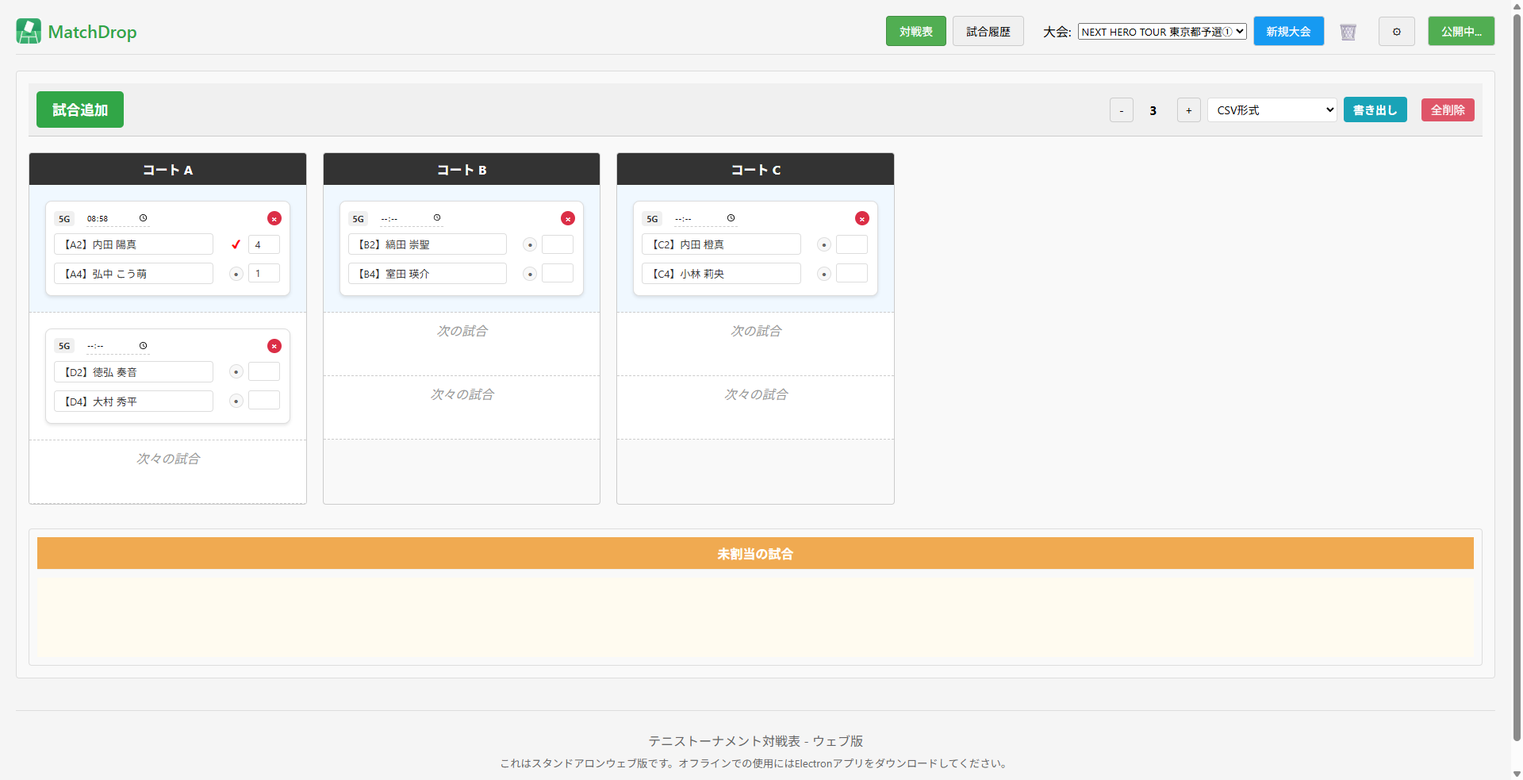
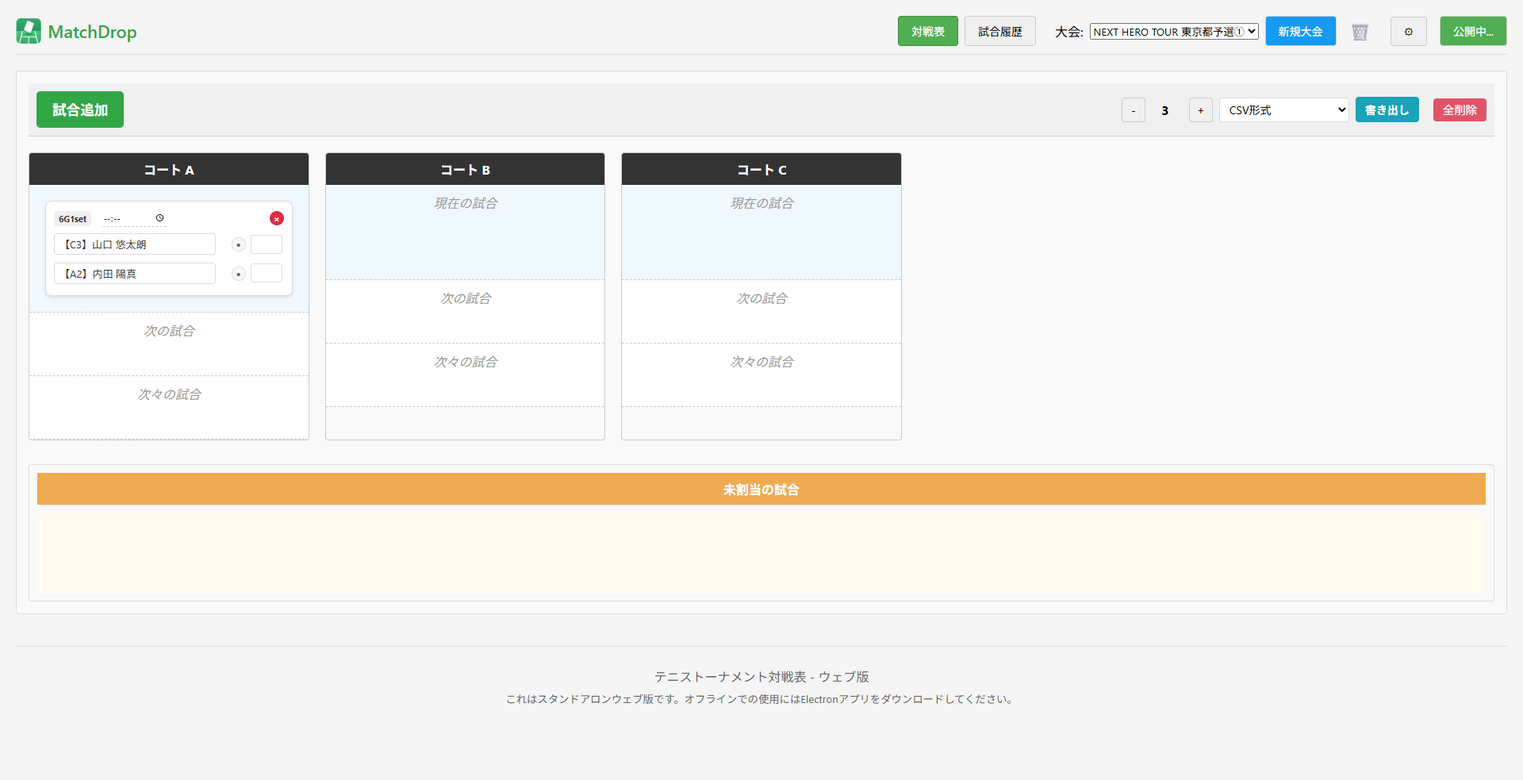
auto: deploy static site 2025-07-19T00:31:37.629Z

diff --git a/board-view.html b/board-view.html
@@ -20,7 +20,7 @@
           
           <button id="delete-all-matches-btn" class="delete-all-btn">全削除</button>
       </div>
-      <div id="court-grid" class="court-grid"><div class="court-slot" data-court-number="1"><div class="court-header"><span class="court-name-edit" data-court-number="1">コート A</span></div><div class="court-rows"><div class="court-row current-row" data-row-type="current"><div class="row-placeholder" style="display: none;">現在の試合</div><div class="card-container"><div class="match-card" id="match-13" draggable="true" data-match-id="13"><div class="match-card-header"><span class="delete-button" title="この試合を削除">×</span><div class="match-card-game-format-display" title="試合形式は変更できません。変更する場合は新規に試合を作成してください。ダブルクリックで試合を完了して履歴に移動します。">5G</div><input type="time" class="match-end-time-input"></div><div class="match-card-players-container"><div class="match-card-player"><input type="text" class="player-name-input" data-player="A"><div style="display: flex; align-items: center; gap: 4px; margin-left: auto;"><div class="win-label win-check" data-player="A" style="color: red; font-weight: bold;">✔</div><div style="display: flex; flex-direction: column; align-items: center; gap: 2px;"><input type="number" min="0" max="99" class="score-input" data-player="A"></div></div></div><div class="match-card-player"><input type="text" class="player-name-input" data-player="B"><div style="display: flex; align-items: center; gap: 4px; margin-left: auto;"><div class="win-label win-button" data-player="B">●</div><div style="display: flex; flex-direction: column; align-items: center; gap: 2px;"><input type="number" min="0" max="99" class="score-input" data-player="B"><div class="tiebreak-score-container-b" style="display: inline-block;"></div></div></div></div><div class="tiebreak-row" style="display: none; justify-content: flex-end; gap: 8px; margin-left: auto;"><span style="display: none;"><div class="tiebreak-score-container-a" style="display: inline-block; margin-top: 2px;"><span style="font-size: 0.8em;">(</span><input type="number" min="0" max="99" class="tiebreak-score-input" data-tiebreak="A" placeholder="TB" tabindex="0" style="width: 40px; height: 20px; font-size: 0.8em; padding: 0px 2px; pointer-events: auto; cursor: text;"><span style="font-size: 0.8em;">)</span></div></span></div></div></div></div></div><div class="court-row next-row" data-row-type="next"><div class="row-placeholder" style="display: none;">次の試合</div><div class="card-container"><div class="match-card" id="match-16" draggable="true" data-match-id="16"><div class="match-card-header"><span class="delete-button" title="この試合を削除">×</span><div class="match-card-game-format-display" title="試合形式は変更できません。変更する場合は新規に試合を作成してください。ダブルクリックで試合を完了して履歴に移動します。">5G</div><input type="time" class="match-end-time-input"></div><div class="match-card-players-container"><div class="match-card-player"><input type="text" class="player-name-input" data-player="A"><div style="display: flex; align-items: center; gap: 4px; margin-left: auto;"><div class="win-label win-button" data-player="A">●</div><div style="display: flex; flex-direction: column; align-items: center; gap: 2px;"><input type="number" min="0" max="99" class="score-input" data-player="A"></div></div></div><div class="match-card-player"><input type="text" class="player-name-input" data-player="B"><div style="display: flex; align-items: center; gap: 4px; margin-left: auto;"><div class="win-label win-button" data-player="B">●</div><div style="display: flex; flex-direction: column; align-items: center; gap: 2px;"><input type="number" min="0" max="99" class="score-input" data-player="B"><div class="tiebreak-score-container-b" style="display: inline-block;"></div></div></div></div><div class="tiebreak-row" style="display: none; justify-content: flex-end; gap: 8px; margin-left: auto;"><span style="display: none;"><div class="tiebreak-score-container-a" style="display: inline-block; margin-top: 2px;"><span style="font-size: 0.8em;">(</span><input type="number" min="0" max="99" class="tiebreak-score-input" data-tiebreak="A" placeholder="TB" tabindex="0" style="width: 40px; height: 20px; font-size: 0.8em; padding: 0px 2px; pointer-events: auto; cursor: text;"><span style="font-size: 0.8em;">)</span></div></span></div></div></div></div></div><div class="court-row next2-row" data-row-type="next2"><div class="row-placeholder">次々の試合</div><div class="card-container"></div></div></div></div><div class="court-slot" data-court-number="2"><div class="court-header"><span class="court-name-edit" data-court-number="2">コート B</span></div><div class="court-rows"><div class="court-row current-row" data-row-type="current"><div class="row-placeholder" style="display: none;">現在の試合</div><div class="card-container"><div class="match-card" id="match-14" draggable="true" data-match-id="14"><div class="match-card-header"><span class="delete-button" title="この試合を削除">×</span><div class="match-card-game-format-display" title="試合形式は変更できません。変更する場合は新規に試合を作成してください。ダブルクリックで試合を完了して履歴に移動します。">5G</div><input type="time" class="match-end-time-input"></div><div class="match-card-players-container"><div class="match-card-player"><input type="text" class="player-name-input" data-player="A"><div style="display: flex; align-items: center; gap: 4px; margin-left: auto;"><div class="win-label win-button" data-player="A">●</div><div style="display: flex; flex-direction: column; align-items: center; gap: 2px;"><input type="number" min="0" max="99" class="score-input" data-player="A"></div></div></div><div class="match-card-player"><input type="text" class="player-name-input" data-player="B"><div style="display: flex; align-items: center; gap: 4px; margin-left: auto;"><div class="win-label win-button" data-player="B">●</div><div style="display: flex; flex-direction: column; align-items: center; gap: 2px;"><input type="number" min="0" max="99" class="score-input" data-player="B"><div class="tiebreak-score-container-b" style="display: inline-block;"></div></div></div></div><div class="tiebreak-row" style="display: none; justify-content: flex-end; gap: 8px; margin-left: auto;"><span style="display: none;"><div class="tiebreak-score-container-a" style="display: inline-block; margin-top: 2px;"><span style="font-size: 0.8em;">(</span><input type="number" min="0" max="99" class="tiebreak-score-input" data-tiebreak="A" placeholder="TB" tabindex="0" style="width: 40px; height: 20px; font-size: 0.8em; padding: 0px 2px; pointer-events: auto; cursor: text;"><span style="font-size: 0.8em;">)</span></div></span></div></div></div></div></div><div class="court-row next-row" data-row-type="next"><div class="row-placeholder">次の試合</div><div class="card-container"></div></div><div class="court-row next2-row" data-row-type="next2"><div class="row-placeholder">次々の試合</div><div class="card-container"></div></div></div></div><div class="court-slot" data-court-number="3"><div class="court-header"><span class="court-name-edit" data-court-number="3">コート C</span></div><div class="court-rows"><div class="court-row current-row" data-row-type="current"><div class="row-placeholder" style="display: none;">現在の試合</div><div class="card-container"><div class="match-card" id="match-15" draggable="true" data-match-id="15"><div class="match-card-header"><span class="delete-button" title="この試合を削除">×</span><div class="match-card-game-format-display" title="試合形式は変更できません。変更する場合は新規に試合を作成してください。ダブルクリックで試合を完了して履歴に移動します。">5G</div><input type="time" class="match-end-time-input"></div><div class="match-card-players-container"><div class="match-card-player"><input type="text" class="player-name-input" data-player="A"><div style="display: flex; align-items: center; gap: 4px; margin-left: auto;"><div class="win-label win-button" data-player="A">●</div><div style="display: flex; flex-direction: column; align-items: center; gap: 2px;"><input type="number" min="0" max="99" class="score-input" data-player="A"></div></div></div><div class="match-card-player"><input type="text" class="player-name-input" data-player="B"><div style="display: flex; align-items: center; gap: 4px; margin-left: auto;"><div class="win-label win-button" data-player="B">●</div><div style="display: flex; flex-direction: column; align-items: center; gap: 2px;"><input type="number" min="0" max="99" class="score-input" data-player="B"><div class="tiebreak-score-container-b" style="display: inline-block;"></div></div></div></div><div class="tiebreak-row" style="display: none; justify-content: flex-end; gap: 8px; margin-left: auto;"><span style="display: none;"><div class="tiebreak-score-container-a" style="display: inline-block; margin-top: 2px;"><span style="font-size: 0.8em;">(</span><input type="number" min="0" max="99" class="tiebreak-score-input" data-tiebreak="A" placeholder="TB" tabindex="0" style="width: 40px; height: 20px; font-size: 0.8em; padding: 0px 2px; pointer-events: auto; cursor: text;"><span style="font-size: 0.8em;">)</span></div></span></div></div></div></div></div><div class="court-row next-row" data-row-type="next"><div class="row-placeholder">次の試合</div><div class="card-container"></div></div><div class="court-row next2-row" data-row-type="next2"><div class="row-placeholder">次々の試合</div><div class="card-container"></div></div></div></div></div>
+      <div id="court-grid" class="court-grid"><div class="court-slot" data-court-number="1"><div class="court-header"><span class="court-name-edit" data-court-number="1">コート A</span></div><div class="court-rows"><div class="court-row current-row" data-row-type="current"><div class="row-placeholder" style="display: none;">現在の試合</div><div class="card-container"><div class="match-card" id="match-17" draggable="true" data-match-id="17"><div class="match-card-header"><span class="delete-button" title="この試合を削除">×</span><div class="match-card-game-format-display" title="試合形式は変更できません。変更する場合は新規に試合を作成してください。ダブルクリックで試合を完了して履歴に移動します。">6G1set</div><input type="time" class="match-end-time-input"></div><div class="match-card-players-container"><div class="match-card-player"><input type="text" class="player-name-input" data-player="A"><div style="display: flex; align-items: center; gap: 4px; margin-left: auto;"><div class="win-label win-button" data-player="A">●</div><div style="display: flex; flex-direction: column; align-items: center; gap: 2px;"><input type="number" min="0" max="99" class="score-input" data-player="A"></div></div></div><div class="match-card-player"><input type="text" class="player-name-input" data-player="B"><div style="display: flex; align-items: center; gap: 4px; margin-left: auto;"><div class="win-label win-button" data-player="B">●</div><div style="display: flex; flex-direction: column; align-items: center; gap: 2px;"><input type="number" min="0" max="99" class="score-input" data-player="B"><div class="tiebreak-score-container-b" style="display: inline-block;"></div></div></div></div><div class="tiebreak-row" style="display: none; justify-content: flex-end; gap: 8px; margin-left: auto;"><span style="display: none;"><div class="tiebreak-score-container-a" style="display: inline-block; margin-top: 2px;"><span style="font-size: 0.8em;">(</span><input type="number" min="0" max="99" class="tiebreak-score-input" data-tiebreak="A" placeholder="TB" tabindex="0" style="width: 40px; height: 20px; font-size: 0.8em; padding: 0px 2px; pointer-events: auto; cursor: text;"><span style="font-size: 0.8em;">)</span></div></span></div></div></div></div></div><div class="court-row next-row" data-row-type="next"><div class="row-placeholder">次の試合</div><div class="card-container"></div></div><div class="court-row next2-row" data-row-type="next2"><div class="row-placeholder">次々の試合</div><div class="card-container"></div></div></div></div><div class="court-slot" data-court-number="2"><div class="court-header"><span class="court-name-edit" data-court-number="2">コート B</span></div><div class="court-rows"><div class="court-row current-row" data-row-type="current"><div class="row-placeholder">現在の試合</div><div class="card-container"></div></div><div class="court-row next-row" data-row-type="next"><div class="row-placeholder">次の試合</div><div class="card-container"></div></div><div class="court-row next2-row" data-row-type="next2"><div class="row-placeholder">次々の試合</div><div class="card-container"></div></div></div></div><div class="court-slot" data-court-number="3"><div class="court-header"><span class="court-name-edit" data-court-number="3">コート C</span></div><div class="court-rows"><div class="court-row current-row" data-row-type="current"><div class="row-placeholder">現在の試合</div><div class="card-container"></div></div><div class="court-row next-row" data-row-type="next"><div class="row-placeholder">次の試合</div><div class="card-container"></div></div><div class="court-row next2-row" data-row-type="next2"><div class="row-placeholder">次々の試合</div><div class="card-container"></div></div></div></div></div>
       
       <!-- 未割当のカード用の枠 -->
       <div class="unassigned-section">

diff --git a/dist-web/board-view.html b/dist-web/board-view.html
@@ -20,7 +20,7 @@
           
           <button id="delete-all-matches-btn" class="delete-all-btn">全削除</button>
       </div>
-      <div id="court-grid" class="court-grid"><div class="court-slot" data-court-number="1"><div class="court-header"><span class="court-name-edit" data-court-number="1">コート A</span></div><div class="court-rows"><div class="court-row current-row" data-row-type="current"><div class="row-placeholder" style="display: none;">現在の試合</div><div class="card-container"><div class="match-card" id="match-13" draggable="true" data-match-id="13"><div class="match-card-header"><span class="delete-button" title="この試合を削除">×</span><div class="match-card-game-format-display" title="試合形式は変更できません。変更する場合は新規に試合を作成してください。ダブルクリックで試合を完了して履歴に移動します。">5G</div><input type="time" class="match-end-time-input"></div><div class="match-card-players-container"><div class="match-card-player"><input type="text" class="player-name-input" data-player="A"><div style="display: flex; align-items: center; gap: 4px; margin-left: auto;"><div class="win-label win-check" data-player="A" style="color: red; font-weight: bold;">✔</div><div style="display: flex; flex-direction: column; align-items: center; gap: 2px;"><input type="number" min="0" max="99" class="score-input" data-player="A"></div></div></div><div class="match-card-player"><input type="text" class="player-name-input" data-player="B"><div style="display: flex; align-items: center; gap: 4px; margin-left: auto;"><div class="win-label win-button" data-player="B">●</div><div style="display: flex; flex-direction: column; align-items: center; gap: 2px;"><input type="number" min="0" max="99" class="score-input" data-player="B"><div class="tiebreak-score-container-b" style="display: inline-block;"></div></div></div></div><div class="tiebreak-row" style="display: none; justify-content: flex-end; gap: 8px; margin-left: auto;"><span style="display: none;"><div class="tiebreak-score-container-a" style="display: inline-block; margin-top: 2px;"><span style="font-size: 0.8em;">(</span><input type="number" min="0" max="99" class="tiebreak-score-input" data-tiebreak="A" placeholder="TB" tabindex="0" style="width: 40px; height: 20px; font-size: 0.8em; padding: 0px 2px; pointer-events: auto; cursor: text;"><span style="font-size: 0.8em;">)</span></div></span></div></div></div></div></div><div class="court-row next-row" data-row-type="next"><div class="row-placeholder" style="display: none;">次の試合</div><div class="card-container"><div class="match-card" id="match-16" draggable="true" data-match-id="16"><div class="match-card-header"><span class="delete-button" title="この試合を削除">×</span><div class="match-card-game-format-display" title="試合形式は変更できません。変更する場合は新規に試合を作成してください。ダブルクリックで試合を完了して履歴に移動します。">5G</div><input type="time" class="match-end-time-input"></div><div class="match-card-players-container"><div class="match-card-player"><input type="text" class="player-name-input" data-player="A"><div style="display: flex; align-items: center; gap: 4px; margin-left: auto;"><div class="win-label win-button" data-player="A">●</div><div style="display: flex; flex-direction: column; align-items: center; gap: 2px;"><input type="number" min="0" max="99" class="score-input" data-player="A"></div></div></div><div class="match-card-player"><input type="text" class="player-name-input" data-player="B"><div style="display: flex; align-items: center; gap: 4px; margin-left: auto;"><div class="win-label win-button" data-player="B">●</div><div style="display: flex; flex-direction: column; align-items: center; gap: 2px;"><input type="number" min="0" max="99" class="score-input" data-player="B"><div class="tiebreak-score-container-b" style="display: inline-block;"></div></div></div></div><div class="tiebreak-row" style="display: none; justify-content: flex-end; gap: 8px; margin-left: auto;"><span style="display: none;"><div class="tiebreak-score-container-a" style="display: inline-block; margin-top: 2px;"><span style="font-size: 0.8em;">(</span><input type="number" min="0" max="99" class="tiebreak-score-input" data-tiebreak="A" placeholder="TB" tabindex="0" style="width: 40px; height: 20px; font-size: 0.8em; padding: 0px 2px; pointer-events: auto; cursor: text;"><span style="font-size: 0.8em;">)</span></div></span></div></div></div></div></div><div class="court-row next2-row" data-row-type="next2"><div class="row-placeholder">次々の試合</div><div class="card-container"></div></div></div></div><div class="court-slot" data-court-number="2"><div class="court-header"><span class="court-name-edit" data-court-number="2">コート B</span></div><div class="court-rows"><div class="court-row current-row" data-row-type="current"><div class="row-placeholder" style="display: none;">現在の試合</div><div class="card-container"><div class="match-card" id="match-14" draggable="true" data-match-id="14"><div class="match-card-header"><span class="delete-button" title="この試合を削除">×</span><div class="match-card-game-format-display" title="試合形式は変更できません。変更する場合は新規に試合を作成してください。ダブルクリックで試合を完了して履歴に移動します。">5G</div><input type="time" class="match-end-time-input"></div><div class="match-card-players-container"><div class="match-card-player"><input type="text" class="player-name-input" data-player="A"><div style="display: flex; align-items: center; gap: 4px; margin-left: auto;"><div class="win-label win-button" data-player="A">●</div><div style="display: flex; flex-direction: column; align-items: center; gap: 2px;"><input type="number" min="0" max="99" class="score-input" data-player="A"></div></div></div><div class="match-card-player"><input type="text" class="player-name-input" data-player="B"><div style="display: flex; align-items: center; gap: 4px; margin-left: auto;"><div class="win-label win-button" data-player="B">●</div><div style="display: flex; flex-direction: column; align-items: center; gap: 2px;"><input type="number" min="0" max="99" class="score-input" data-player="B"><div class="tiebreak-score-container-b" style="display: inline-block;"></div></div></div></div><div class="tiebreak-row" style="display: none; justify-content: flex-end; gap: 8px; margin-left: auto;"><span style="display: none;"><div class="tiebreak-score-container-a" style="display: inline-block; margin-top: 2px;"><span style="font-size: 0.8em;">(</span><input type="number" min="0" max="99" class="tiebreak-score-input" data-tiebreak="A" placeholder="TB" tabindex="0" style="width: 40px; height: 20px; font-size: 0.8em; padding: 0px 2px; pointer-events: auto; cursor: text;"><span style="font-size: 0.8em;">)</span></div></span></div></div></div></div></div><div class="court-row next-row" data-row-type="next"><div class="row-placeholder">次の試合</div><div class="card-container"></div></div><div class="court-row next2-row" data-row-type="next2"><div class="row-placeholder">次々の試合</div><div class="card-container"></div></div></div></div><div class="court-slot" data-court-number="3"><div class="court-header"><span class="court-name-edit" data-court-number="3">コート C</span></div><div class="court-rows"><div class="court-row current-row" data-row-type="current"><div class="row-placeholder" style="display: none;">現在の試合</div><div class="card-container"><div class="match-card" id="match-15" draggable="true" data-match-id="15"><div class="match-card-header"><span class="delete-button" title="この試合を削除">×</span><div class="match-card-game-format-display" title="試合形式は変更できません。変更する場合は新規に試合を作成してください。ダブルクリックで試合を完了して履歴に移動します。">5G</div><input type="time" class="match-end-time-input"></div><div class="match-card-players-container"><div class="match-card-player"><input type="text" class="player-name-input" data-player="A"><div style="display: flex; align-items: center; gap: 4px; margin-left: auto;"><div class="win-label win-button" data-player="A">●</div><div style="display: flex; flex-direction: column; align-items: center; gap: 2px;"><input type="number" min="0" max="99" class="score-input" data-player="A"></div></div></div><div class="match-card-player"><input type="text" class="player-name-input" data-player="B"><div style="display: flex; align-items: center; gap: 4px; margin-left: auto;"><div class="win-label win-button" data-player="B">●</div><div style="display: flex; flex-direction: column; align-items: center; gap: 2px;"><input type="number" min="0" max="99" class="score-input" data-player="B"><div class="tiebreak-score-container-b" style="display: inline-block;"></div></div></div></div><div class="tiebreak-row" style="display: none; justify-content: flex-end; gap: 8px; margin-left: auto;"><span style="display: none;"><div class="tiebreak-score-container-a" style="display: inline-block; margin-top: 2px;"><span style="font-size: 0.8em;">(</span><input type="number" min="0" max="99" class="tiebreak-score-input" data-tiebreak="A" placeholder="TB" tabindex="0" style="width: 40px; height: 20px; font-size: 0.8em; padding: 0px 2px; pointer-events: auto; cursor: text;"><span style="font-size: 0.8em;">)</span></div></span></div></div></div></div></div><div class="court-row next-row" data-row-type="next"><div class="row-placeholder">次の試合</div><div class="card-container"></div></div><div class="court-row next2-row" data-row-type="next2"><div class="row-placeholder">次々の試合</div><div class="card-container"></div></div></div></div></div>
+      <div id="court-grid" class="court-grid"><div class="court-slot" data-court-number="1"><div class="court-header"><span class="court-name-edit" data-court-number="1">コート A</span></div><div class="court-rows"><div class="court-row current-row" data-row-type="current"><div class="row-placeholder" style="display: none;">現在の試合</div><div class="card-container"><div class="match-card" id="match-17" draggable="true" data-match-id="17"><div class="match-card-header"><span class="delete-button" title="この試合を削除">×</span><div class="match-card-game-format-display" title="試合形式は変更できません。変更する場合は新規に試合を作成してください。ダブルクリックで試合を完了して履歴に移動します。">6G1set</div><input type="time" class="match-end-time-input"></div><div class="match-card-players-container"><div class="match-card-player"><input type="text" class="player-name-input" data-player="A"><div style="display: flex; align-items: center; gap: 4px; margin-left: auto;"><div class="win-label win-button" data-player="A">●</div><div style="display: flex; flex-direction: column; align-items: center; gap: 2px;"><input type="number" min="0" max="99" class="score-input" data-player="A"></div></div></div><div class="match-card-player"><input type="text" class="player-name-input" data-player="B"><div style="display: flex; align-items: center; gap: 4px; margin-left: auto;"><div class="win-label win-button" data-player="B">●</div><div style="display: flex; flex-direction: column; align-items: center; gap: 2px;"><input type="number" min="0" max="99" class="score-input" data-player="B"><div class="tiebreak-score-container-b" style="display: inline-block;"></div></div></div></div><div class="tiebreak-row" style="display: none; justify-content: flex-end; gap: 8px; margin-left: auto;"><span style="display: none;"><div class="tiebreak-score-container-a" style="display: inline-block; margin-top: 2px;"><span style="font-size: 0.8em;">(</span><input type="number" min="0" max="99" class="tiebreak-score-input" data-tiebreak="A" placeholder="TB" tabindex="0" style="width: 40px; height: 20px; font-size: 0.8em; padding: 0px 2px; pointer-events: auto; cursor: text;"><span style="font-size: 0.8em;">)</span></div></span></div></div></div></div></div><div class="court-row next-row" data-row-type="next"><div class="row-placeholder">次の試合</div><div class="card-container"></div></div><div class="court-row next2-row" data-row-type="next2"><div class="row-placeholder">次々の試合</div><div class="card-container"></div></div></div></div><div class="court-slot" data-court-number="2"><div class="court-header"><span class="court-name-edit" data-court-number="2">コート B</span></div><div class="court-rows"><div class="court-row current-row" data-row-type="current"><div class="row-placeholder">現在の試合</div><div class="card-container"></div></div><div class="court-row next-row" data-row-type="next"><div class="row-placeholder">次の試合</div><div class="card-container"></div></div><div class="court-row next2-row" data-row-type="next2"><div class="row-placeholder">次々の試合</div><div class="card-container"></div></div></div></div><div class="court-slot" data-court-number="3"><div class="court-header"><span class="court-name-edit" data-court-number="3">コート C</span></div><div class="court-rows"><div class="court-row current-row" data-row-type="current"><div class="row-placeholder">現在の試合</div><div class="card-container"></div></div><div class="court-row next-row" data-row-type="next"><div class="row-placeholder">次の試合</div><div class="card-container"></div></div><div class="court-row next2-row" data-row-type="next2"><div class="row-placeholder">次々の試合</div><div class="card-container"></div></div></div></div></div>
       
       <!-- 未割当のカード用の枠 -->
       <div class="unassigned-section">
